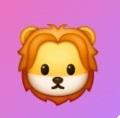
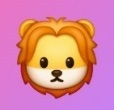
fix: 사자 이미지 교체, 대시보드 mixBlendMode 제거, 액션 이미지 원형 적용

Changed region(s): [[0.1316, 0.1364, 0.8684, 0.9], [0.9737, 0.9545, 1.0, 1.0], [0.5789, 0.7909, 0.6053, 0.8182]]

diff --git a/src/components/GlobalLoader.tsx b/src/components/GlobalLoader.tsx
@@ -125,13 +125,19 @@ function LoaderCore() {
 
           {/* 심바 + 그림자 */}
           <div style={{ position: 'relative', width: 100, height: 120, display: 'flex', flexDirection: 'column', alignItems: 'center', justifyContent: 'flex-end' }}>
-            <img src="/lion.png" alt="simba" width={72} height={72} style={{
-              userSelect: 'none', display: 'block', position: 'absolute', bottom: 12,
+            <div style={{
+              position: 'absolute', bottom: 12,
+              width: 72, height: 72,
+              borderRadius: '50%',
+              overflow: 'hidden',
               animation: 'simbaJump 0.9s cubic-bezier(0.36,0.07,0.19,0.97) infinite',
               filter: 'drop-shadow(0 8px 16px rgba(219,39,119,0.2))',
-              objectFit: 'contain',
-              mixBlendMode: 'multiply',
-            }} />
+            }}>
+              <img src="/lion.png" alt="simba" width={72} height={72} style={{
+                userSelect: 'none', display: 'block',
+                objectFit: 'cover',
+              }} />
+            </div>
             <div style={{
               width: 60, height: 10,
               background: 'radial-gradient(ellipse, rgba(74,45,64,0.35) 0%, transparent 70%)',

diff --git a/src/app/page.tsx b/src/app/page.tsx
@@ -43,7 +43,7 @@ export default async function HomePage() {
           display: 'flex', alignItems: 'center', justifyContent: 'center',
           flexShrink: 0, overflow: 'hidden',
         }}>
-          <img src="/lion.png" alt="simba" width={100} height={100} style={{ objectFit: 'cover', mixBlendMode: 'multiply' }} />
+          <img src="/lion.png" alt="simba" width={100} height={100} style={{ objectFit: 'cover' }} />
         </div>
         <div>
           <h1 style={{ margin: 0, fontSize: 26, fontWeight: 700, color: '#4a2d40' }}>simba</h1>
